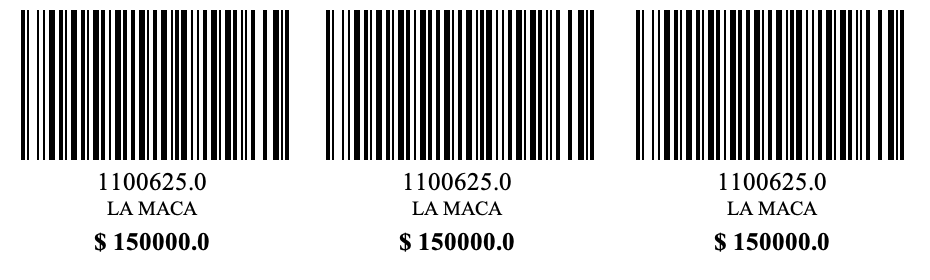
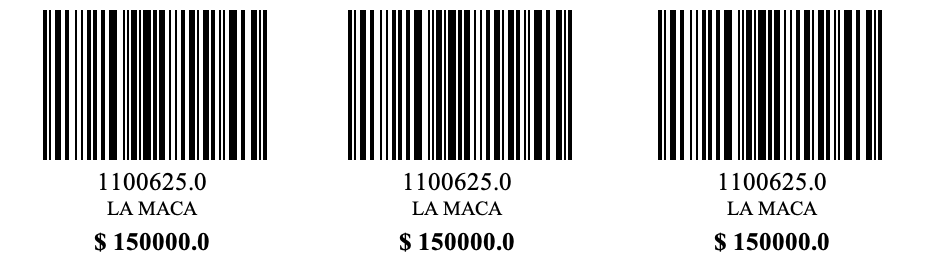
Change codebar

Changed region(s): [[0.686, 0.0286, 0.9978, 0.5714], [0.343, 0.0286, 0.6548, 0.5714], [0.0, 0.0286, 0.3118, 0.5714]]

diff --git a/spring-boot/src/main/java/com/example/springboot/Application.java b/spring-boot/src/main/java/com/example/springboot/Application.java
@@ -65,7 +65,7 @@ public class Application {
 			if((int)entrySet.getKey() > 0){
 				ArrayList<String> lista = ((ArrayList<String>) entrySet.getValue());
 				Barcode barcode = new Barcode();
-				Image img = barcode.encode(EncodingType.CODE128A, lista.get(0));
+				Image img = barcode.encode(EncodingType.CODE128, lista.get(0));
 				savePic(img,"PNG","Producto_" + lista.get(0) + ".png", lista.get(0), lista.get(1), lista.get(7));
 			}
 		}
